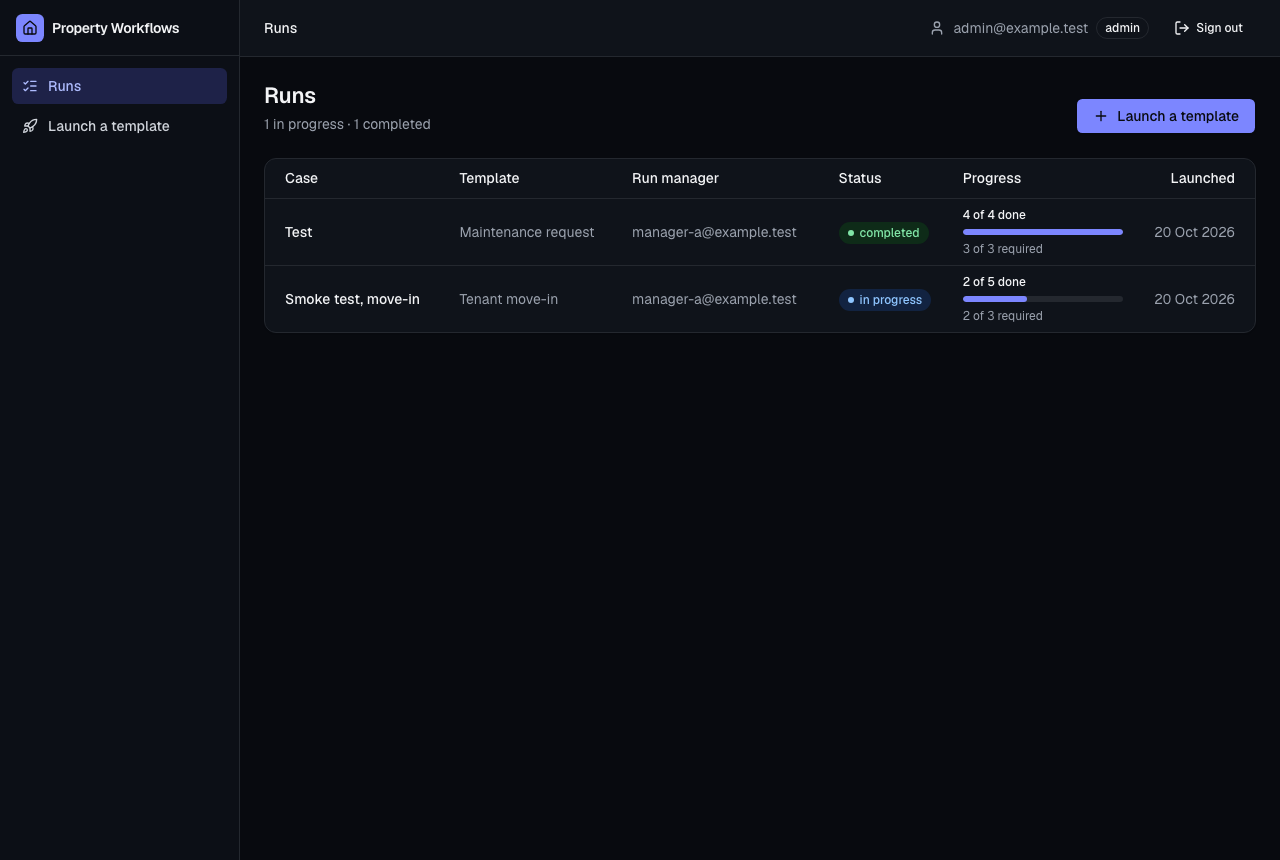
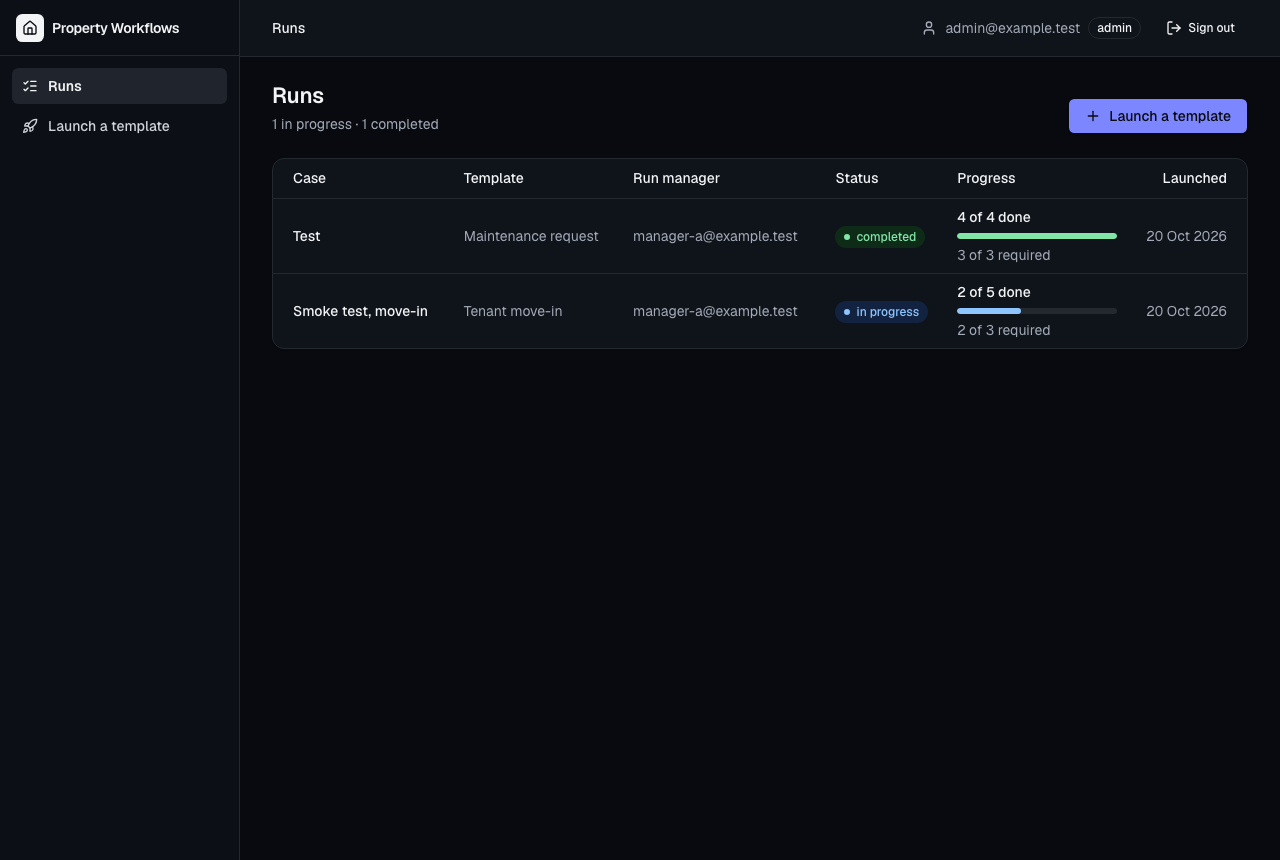
Design system: align with PM «Вигляд і тон» — accent only for the main action, status colours (to do grey, in progress blue, done green, Unpublished changes warm yellow), warning colour for irreversible confirm, no small grey text, empty state text (AC-DSYS-04)

diff --git a/src/app/globals.css b/src/app/globals.css
@@ -15,14 +15,14 @@
   --secondary: oklch(96.7% 0.003 264.5);
   --secondary-foreground: oklch(21% 0.032 264.7);
   --muted: oklch(96.7% 0.003 264.5);
-  --muted-foreground: oklch(51% 0.022 264);
-  --accent: oklch(96.2% 0.018 272.3);
-  --accent-foreground: oklch(45.7% 0.215 277);
+  --muted-foreground: oklch(46% 0.025 264);
+  --accent: oklch(95.6% 0.004 264.5);
+  --accent-foreground: oklch(21% 0.032 264.7);
   --destructive: oklch(50.5% 0.19 27.5);
   --destructive-soft: oklch(97.1% 0.013 17.4);
   --border: oklch(92.8% 0.006 264.5);
   --input: oklch(64% 0.02 262);
-  --ring: oklch(51.1% 0.229 276.9);
+  --ring: oklch(21% 0.032 264.7);
   /* Статуси домену: ран «in progress» / «completed», задача «done». */
   --status-progress: oklch(97% 0.014 254.6);
   --status-progress-foreground: oklch(48.8% 0.217 264.4);
@@ -30,12 +30,17 @@
   --status-done-foreground: oklch(44.8% 0.119 151.3);
   --success: oklch(52.7% 0.154 150.1);
   --success-foreground: oklch(100% 0 0);
+  /* «Unpublished changes» — теплий жовтий; незворотна дія — колір-попередження (Вигляд і тон PM). */
+  --status-draft: oklch(97.3% 0.05 95);
+  --status-draft-foreground: oklch(47.3% 0.137 46.2);
+  --warning: oklch(55.3% 0.195 38.4);
+  --warning-foreground: oklch(100% 0 0);
   --track: oklch(92.8% 0.006 264.5);
   /* Бічна навігація. */
   --sidebar: oklch(100% 0 0);
   --sidebar-foreground: oklch(37.3% 0.034 259.7);
-  --sidebar-accent: oklch(96.2% 0.018 272.3);
-  --sidebar-accent-foreground: oklch(45.7% 0.215 277);
+  --sidebar-accent: oklch(95.6% 0.004 264.5);
+  --sidebar-accent-foreground: oklch(21% 0.032 264.7);
   --sidebar-border: oklch(92.8% 0.006 264.5);
   /* Декоративні: скелетон і колір тіней. */
   --skeleton: oklch(94.5% 0.004 264.5);
@@ -57,25 +62,29 @@
     --secondary: oklch(24.5% 0.016 264);
     --secondary-foreground: oklch(96.7% 0.003 264.5);
     --muted: oklch(24.5% 0.016 264);
-    --muted-foreground: oklch(71% 0.02 262);
-    --accent: oklch(27% 0.07 277);
-    --accent-foreground: oklch(81% 0.1 275);
+    --muted-foreground: oklch(74% 0.02 262);
+    --accent: oklch(26% 0.016 264);
+    --accent-foreground: oklch(96.7% 0.003 264.5);
     --destructive: oklch(71% 0.17 22);
     --destructive-soft: oklch(25.5% 0.06 25);
     --border: oklch(27.5% 0.015 264);
     --input: oklch(52% 0.02 262);
-    --ring: oklch(67.3% 0.182 276.9);
+    --ring: oklch(96.7% 0.003 264.5);
     --status-progress: oklch(26% 0.06 260);
     --status-progress-foreground: oklch(80.9% 0.105 251.8);
     --status-done: oklch(26% 0.05 152);
     --status-done-foreground: oklch(84.5% 0.13 155);
     --success: oklch(72.3% 0.17 150);
     --success-foreground: oklch(14.5% 0.012 264);
+    --status-draft: oklch(28% 0.06 70);
+    --status-draft-foreground: oklch(87.9% 0.15 91.6);
+    --warning: oklch(75% 0.183 55.9);
+    --warning-foreground: oklch(14.5% 0.012 264);
     --track: oklch(27.5% 0.015 264);
     --sidebar: oklch(17% 0.014 264);
     --sidebar-foreground: oklch(87% 0.01 260);
-    --sidebar-accent: oklch(27% 0.07 277);
-    --sidebar-accent-foreground: oklch(81% 0.1 275);
+    --sidebar-accent: oklch(26% 0.016 264);
+    --sidebar-accent-foreground: oklch(96.7% 0.003 264.5);
     --sidebar-border: oklch(27.5% 0.015 264);
     --skeleton: oklch(24.5% 0.016 264);
     --skeleton-shine: oklch(28.5% 0.018 264);
@@ -109,6 +118,10 @@
   --color-status-done-foreground: var(--status-done-foreground);
   --color-success: var(--success);
   --color-success-foreground: var(--success-foreground);
+  --color-status-draft: var(--status-draft);
+  --color-status-draft-foreground: var(--status-draft-foreground);
+  --color-warning: var(--warning);
+  --color-warning-foreground: var(--warning-foreground);
   --color-track: var(--track);
   --color-sidebar: var(--sidebar);
   --color-sidebar-foreground: var(--sidebar-foreground);

diff --git a/src/app/_components/ui.tsx b/src/app/_components/ui.tsx
@@ -19,11 +19,11 @@ export function Icon({ name, className = "size-4" }: { name: keyof typeof ICONS;
   return <Glyph className={className} aria-hidden="true" />;
 }
 
-/** Знак продукту: квадрат primary з іконкою будинку і назва. */
+/** Знак продукту: нейтральний квадрат з іконкою будинку і назва (акцентний колір — лише для основної дії). */
 export function Brand() {
   return (
     <span className="flex items-center gap-2 text-sm font-semibold tracking-tight">
-      <span className="grid size-7 place-items-center rounded-md bg-primary text-primary-foreground">
+      <span className="grid size-7 place-items-center rounded-md bg-foreground text-background">
         <Icon name="logo" className="size-4" />
       </span>
       Property Workflows
@@ -68,7 +68,7 @@ export function AppShell({
         <header className="sticky top-0 z-10 border-b border-border bg-card">
           <div className="flex h-14 items-center gap-3 px-4 sm:px-6 lg:px-8">
             <Link href="/" className="rounded-md md:hidden" aria-label="Property Workflows">
-              <span className="grid size-7 place-items-center rounded-md bg-primary text-primary-foreground">
+              <span className="grid size-7 place-items-center rounded-md bg-foreground text-background">
                 <Icon name="logo" className="size-4" />
               </span>
             </Link>
@@ -105,9 +105,9 @@ export function AppShell({
                 )}
               </span>
               <form action={signOut}>
-                <Button type="submit" variant="ghost" size="sm" aria-label="Sign out">
+                <Button type="submit" variant="ghost" size="sm">
                   <Icon name="out" />
-                  <span className="hidden sm:inline">Sign out</span>
+                  Sign out
                 </Button>
               </form>
             </div>
@@ -214,16 +214,21 @@ export function ProgressBar({
   compact?: boolean;
 }) {
   const pct = total === 0 ? 0 : Math.round((done / total) * 100);
+  // Заповнення — кольором статусу: «completed» зелений, інакше «in progress» синій (Вигляд і тон, AC-DSYS-01).
+  const complete = total > 0 && done === total;
   return (
     <div className="flex min-w-28 flex-col gap-1.5">
-      <span className={cn("tabular-nums", compact ? "text-xs font-medium" : "text-sm font-semibold")} data-testid="run-progress">
+      <span className={cn("text-sm tabular-nums", compact ? "font-medium" : "font-semibold")} data-testid="run-progress">
         {label}
       </span>
       <div className="h-1.5 w-full overflow-hidden rounded-full bg-track" role="progressbar" aria-valuemin={0} aria-valuemax={100} aria-valuenow={pct} aria-valuetext={label} aria-label={label}>
-        <div className="h-full rounded-full bg-primary transition-[width] duration-500" style={{ width: `${pct}%` }} />
+        <div
+          className={cn("h-full rounded-full transition-[width] duration-500", complete ? "bg-status-done-foreground" : "bg-status-progress-foreground")}
+          style={{ width: `${pct}%` }}
+        />
       </div>
       {required ? (
-        <span className="text-xs text-muted-foreground tabular-nums" data-testid="run-required-progress">
+        <span className="text-sm text-muted-foreground tabular-nums" data-testid="run-required-progress">
           {required.done} of {required.total} required
         </span>
       ) : null}

diff --git a/src/app/page.tsx b/src/app/page.tsx
@@ -2,6 +2,7 @@ import Link from "next/link";
 import { redirect } from "next/navigation";
 import { buttonVariants } from "@/components/ui/button";
 import { Table, TableBody, TableCell, TableHead, TableHeader, TableRow } from "@/components/ui/table";
+import { NO_RUNS } from "@/lib/runs/messages";
 import { emailOf, loadPeople } from "@/lib/runs/people";
 import { countProgress, progressOf } from "@/lib/runs/progress";
 import { createClient } from "@/lib/supabase/server";
@@ -65,10 +66,10 @@ export default async function Home() {
                 return (
                   <TableRow key={run.id}>
                     <TableCell className="pl-5">
-                      <Link href={`/runs/${run.id}`} className="rounded-sm font-medium hover:text-primary hover:underline">
+                      <Link href={`/runs/${run.id}`} className="rounded-sm font-medium underline-offset-4 hover:underline">
                         {run.case_name}
                       </Link>
-                      <span className="mt-0.5 block text-xs text-muted-foreground md:hidden">{run.templates?.name ?? "—"}</span>
+                      <span className="mt-0.5 block text-sm text-muted-foreground md:hidden">{run.templates?.name ?? "—"}</span>
                     </TableCell>
                     <TableCell className="hidden text-muted-foreground md:table-cell">{run.templates?.name ?? "—"}</TableCell>
                     <TableCell className="hidden text-muted-foreground lg:table-cell">{emailOf(people, run.manager_id)}</TableCell>
@@ -94,13 +95,14 @@ export default async function Home() {
           </Table>
         </Card>
       ) : (
-        <Card className="flex flex-col items-center gap-3 px-6 py-14 text-center">
+        <Card className="flex flex-col items-center gap-3 px-6 py-14 text-center" data-testid="runs-empty">
           <span className="grid size-10 place-items-center rounded-md bg-accent text-accent-foreground">
             <Icon name="list" className="size-5" />
           </span>
-          <p className="font-semibold">No runs yet</p>
-          <p className="max-w-sm text-sm text-muted-foreground">Launch a template for a case to start tracking its tasks and progress.</p>
-          <div className="mt-2">{launch}</div>
+          <p className="font-medium">{NO_RUNS}</p>
+          <Link href="/runs/new" className={buttonVariants({ variant: "link" })}>
+            Launch a template
+          </Link>
         </Card>
       )}
     </AppShell>

diff --git a/src/app/runs/[id]/page.tsx b/src/app/runs/[id]/page.tsx
@@ -69,7 +69,7 @@ export default async function RunPage({ params }: PageProps<"/runs/[id]">) {
 
       <div className="grid gap-4 sm:grid-cols-3">
         <Card className="p-4">
-          <p className="mb-2 text-xs font-medium text-muted-foreground">Progress</p>
+          <p className="mb-2 text-sm text-muted-foreground">Progress</p>
           <ProgressBar
             done={done}
             total={total}
@@ -78,11 +78,11 @@ export default async function RunPage({ params }: PageProps<"/runs/[id]">) {
           />
         </Card>
         <Card className="p-4">
-          <p className="text-xs font-medium text-muted-foreground">Run manager</p>
+          <p className="text-sm text-muted-foreground">Run manager</p>
           <p className="mt-2 truncate text-sm font-semibold">{manager}</p>
         </Card>
         <Card className="p-4">
-          <p className="text-xs font-medium text-muted-foreground">Launched</p>
+          <p className="text-sm text-muted-foreground">Launched</p>
           <p className="mt-2 text-sm font-semibold tabular-nums">{launched}</p>
         </Card>
       </div>
@@ -98,7 +98,7 @@ export default async function RunPage({ params }: PageProps<"/runs/[id]">) {
               <h2 id={`section-${section.key}`} className="text-sm font-semibold">
                 {section.name}
               </h2>
-              <span className="text-xs text-muted-foreground tabular-nums">{progressOf(section.tasks)}</span>
+              <span className="text-sm text-muted-foreground tabular-nums">{progressOf(section.tasks)}</span>
             </div>
             <Table className="table-fixed" containerClassName="overflow-visible">
               <TableHeader>
@@ -119,7 +119,7 @@ export default async function RunPage({ params }: PageProps<"/runs/[id]">) {
                       <span className={cn("font-medium", task.status === "done" && "text-muted-foreground line-through decoration-1")}>
                         {task.name}
                       </span>
-                      <span className="mt-0.5 flex items-center gap-1.5 text-xs text-muted-foreground md:hidden">
+                      <span className="mt-0.5 flex items-center gap-1.5 text-sm text-muted-foreground md:hidden">
                         <Icon name="user" className="size-3.5" />
                         {emailOf(people, task.assignee_id)}
                       </span>

diff --git a/src/app/runs/[id]/mark-done-button.tsx b/src/app/runs/[id]/mark-done-button.tsx
@@ -52,7 +52,7 @@ export function MarkDoneButton({
             <Button type="button" variant="secondary" size="sm" onClick={() => setAsking(false)} autoFocus>
               Cancel
             </Button>
-            <Button type="submit" size="sm" disabled={pending}>
+            <Button type="submit" variant="warning" size="sm" disabled={pending}>
               {pending ? "Saving…" : "Confirm"}
             </Button>
           </div>
@@ -67,7 +67,7 @@ export function MarkDoneButton({
       ) : null}
 
       {state.error ? (
-        <p role="alert" className="max-w-64 text-right text-xs text-destructive">
+        <p role="alert" className="max-w-64 text-right text-sm text-destructive">
           {state.error}
         </p>
       ) : null}

diff --git a/src/components/ui/button.tsx b/src/components/ui/button.tsx
@@ -16,7 +16,8 @@ const buttonVariants = cva(
           "hover:bg-muted hover:text-foreground aria-expanded:bg-muted aria-expanded:text-foreground dark:hover:bg-muted/50",
         destructive:
           "bg-destructive/10 text-destructive hover:bg-destructive/20 focus-visible:border-destructive/40 focus-visible:ring-destructive/20 dark:bg-destructive/20 dark:hover:bg-destructive/30 dark:focus-visible:ring-destructive/40",
-        link: "text-primary underline-offset-4 hover:underline",
+        warning: "bg-warning text-warning-foreground shadow-card hover:bg-warning/90",
+        link: "text-foreground underline underline-offset-4 hover:no-underline",
       },
       size: {
         default: "h-9 gap-2 px-4",

diff --git a/src/app/_components/sidebar-nav.tsx b/src/app/_components/sidebar-nav.tsx
@@ -26,7 +26,7 @@ export function SidebarNav({ orientation = "vertical" }: { orientation?: "vertic
             className={cn(
               "flex h-9 shrink-0 items-center gap-2.5 rounded-md px-2.5 text-sm font-medium transition-colors",
               current
-                ? "bg-sidebar-accent text-sidebar-accent-foreground"
+                ? "bg-sidebar-accent font-semibold text-sidebar-accent-foreground"
                 : "text-sidebar-foreground hover:bg-muted hover:text-foreground",
             )}
           >

diff --git a/src/lib/runs/messages.ts b/src/lib/runs/messages.ts
@@ -26,5 +26,8 @@ export function messageFor(message: string | null | undefined): string {
   return code ? MESSAGES[code] : FALLBACK;
 }
 
+/** Порожній список ранів (AC-DSYS-04): текст PM дослівно, поруч — посилання «Launch a template». */
+export const NO_RUNS = "No runs yet. Launch a template to start one.";
+
 /** Чужий або неіснуючий ран за прямим посиланням (AC-TASK-10). */
 export const RUN_NOT_FOUND = "Run not found";

diff --git a/src/components/ui/badge.tsx b/src/components/ui/badge.tsx
@@ -18,6 +18,7 @@ const badgeVariants = cva(
         progress: "bg-status-progress text-status-progress-foreground",
         done: "bg-status-done text-status-done-foreground",
         muted: "bg-muted text-muted-foreground",
+        draft: "bg-status-draft text-status-draft-foreground",
         ghost:
           "hover:bg-muted hover:text-muted-foreground dark:hover:bg-muted/50",
         link: "text-primary underline-offset-4 hover:underline",

diff --git a/src/app/_components/skeletons.tsx b/src/app/_components/skeletons.tsx
@@ -57,7 +57,7 @@ export function RunDetailSkeleton() {
       <div className="grid gap-4 sm:grid-cols-3">
         {["Progress", "Run manager", "Launched"].map((label) => (
           <Card key={label} className="p-4">
-            <p className="text-xs font-medium text-muted-foreground">{label}</p>
+            <p className="text-sm text-muted-foreground">{label}</p>
             <Bar className="mt-2.5 h-4 w-32" />
           </Card>
         ))}

diff --git a/src/app/runs/new/assignee-select.tsx b/src/app/runs/new/assignee-select.tsx
@@ -16,7 +16,7 @@ function Avatar({ label, me = false }: { label: string; me?: boolean }) {
     <span
       className={cn(
         "grid size-6 shrink-0 place-items-center rounded-full text-xs font-semibold",
-        me ? "bg-primary text-primary-foreground" : "bg-accent text-accent-foreground",
+        me ? "bg-foreground text-background" : "bg-accent text-accent-foreground",
       )}
       aria-hidden="true"
     >

diff --git a/src/app/runs/new/launch-form.tsx b/src/app/runs/new/launch-form.tsx
@@ -44,7 +44,7 @@ export function LaunchForm({
             aria-invalid={state.error ? true : undefined}
             data-testid="case-name"
           />
-          <p id="caseName-help" className="text-xs text-muted-foreground">
+          <p id="caseName-help" className="text-sm text-muted-foreground">
             Up to 100 characters. You become the run manager.
           </p>
         </div>
